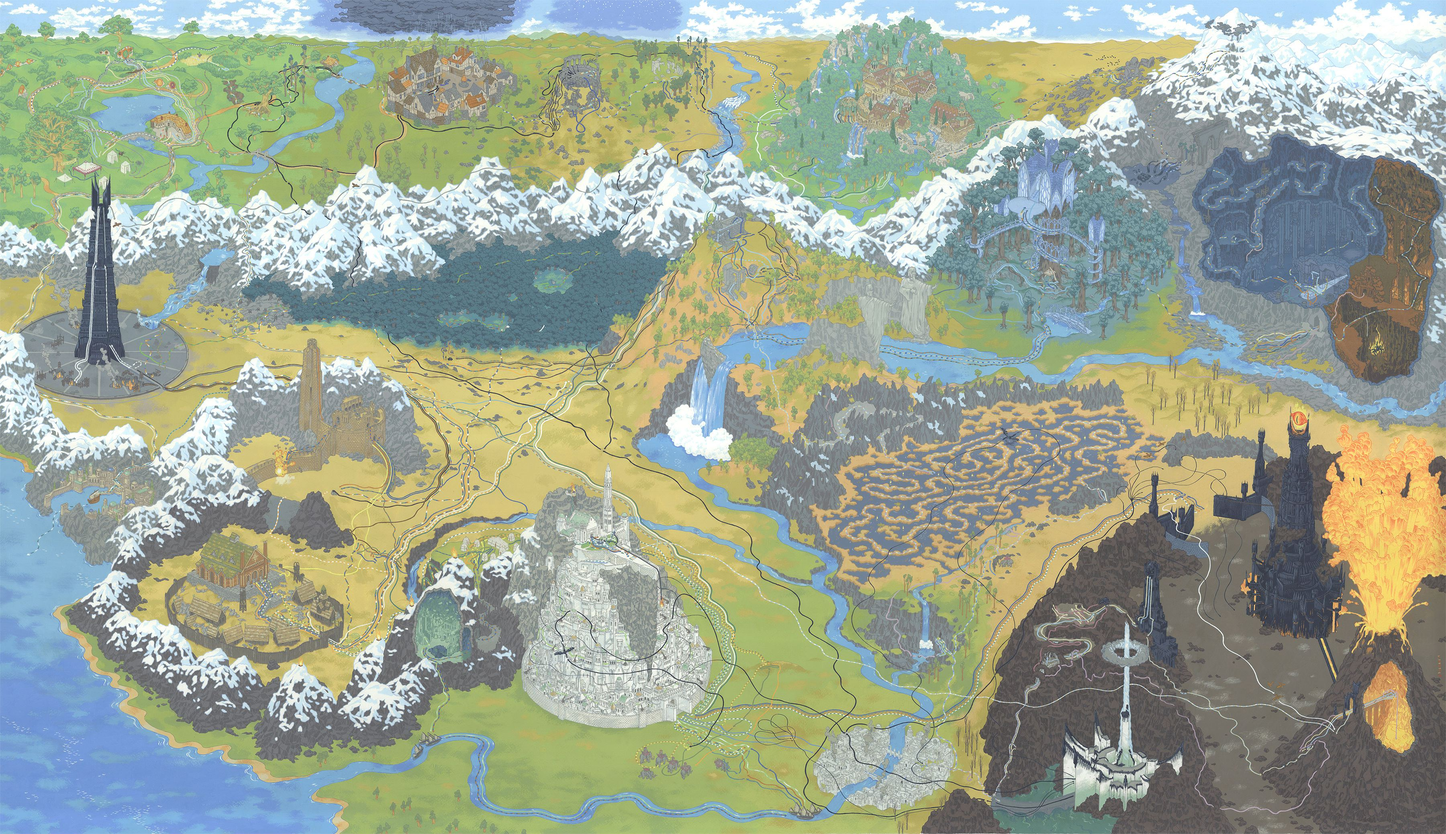
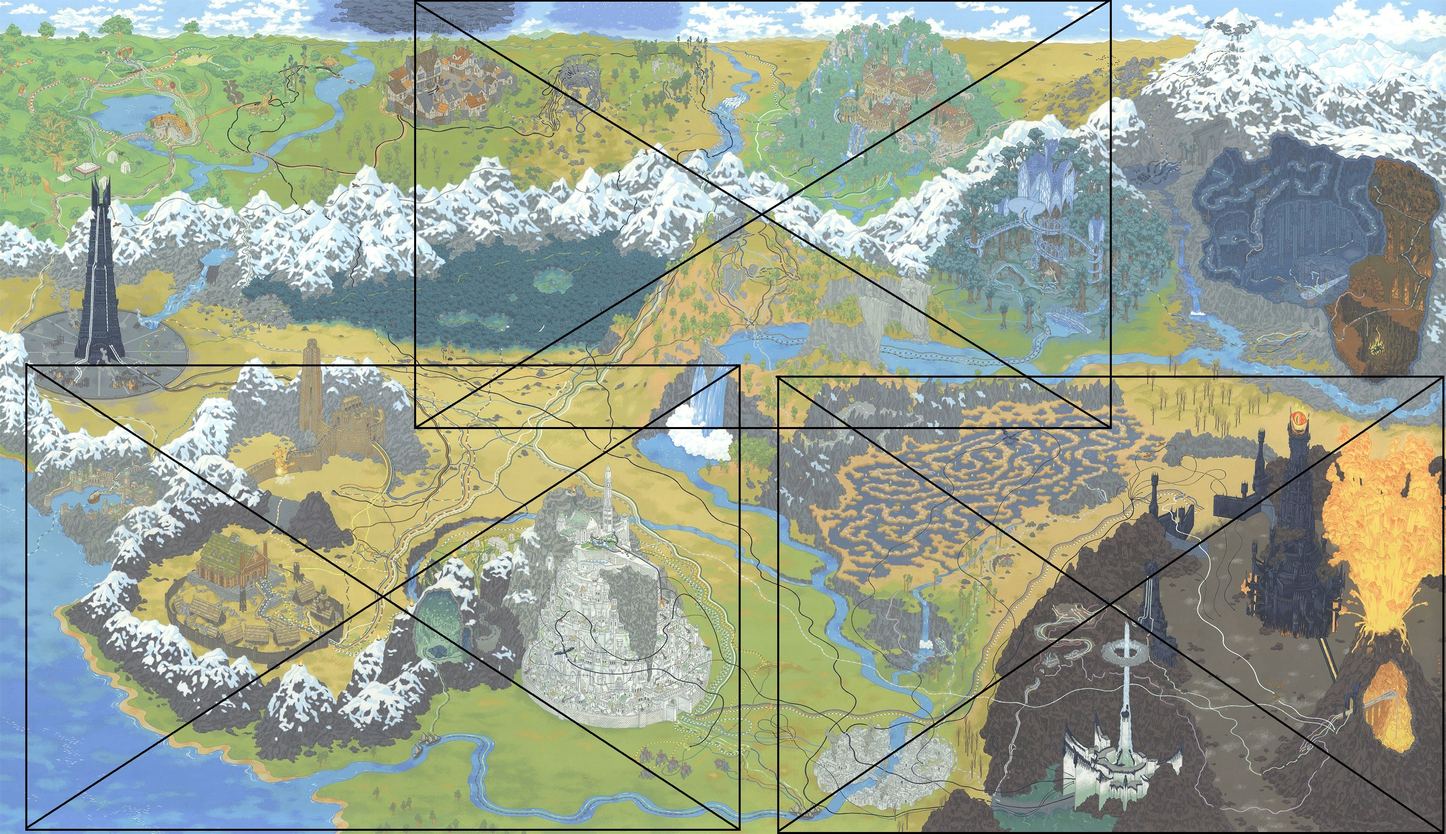
map zoom in

diff --git a/js/controllers/map.js b/js/controllers/map.js
@@ -1,31 +1,36 @@
 angular.module('al')
 
 .controller('MapCtrl', function($scope, $uibModalInstance, $document) {
+  $scope.currentState = 'zoom-initial';
   $scope.close = function() {
     $uibModalInstance.dismiss('cancel');
   };
-  function MapItem(bottom,right,imgClass,title,description){
+  function MapItem(bottom,right,imgClass,onClick,title,description){
     this.bottom=bottom;
     this.right=right;
     this.imgClass=imgClass;
+    this.onClick=onClick;
     this.title=title;
     this.description=description;
   }
   $scope.mapItems = [
-    new MapItem(100,10,"img-map-item",'Attraction 1','Cool description about attraction 1'),
-    new MapItem(10,159,"img-map-item",'Attraction 2','Cool description about attraction 2'),
-    new MapItem(58,60,"img-map-item",'Attraction 3','Cool description about attraction 3')
+    new MapItem('28.5%','70.5%',"img-map-item",'zoomWarriors','Warriors','Cool description about attraction 1. (click to zoom)'),
+    new MapItem('74%','44.5%',"img-map-item",'zoomSuperHero','Super Hero','Cool description about attraction 2. (click to zoom)'),
+    new MapItem('28%','20.5%',"img-map-item",'zoomHorror','Horror','Cool description about attraction 3. (click to zoom)')
   ];
-    $scope.mapItemsTo = [
-    new MapItem(150,60,"img-map-item",'Attraction 1','Cool description about attraction 1'),
-    new MapItem(60,209,"img-map-item",'Attraction 2','Cool description about attraction 2'),
-    new MapItem(108,110,"img-map-item",'Attraction 3','Cool description about attraction 3')
-  ];
-  $scope.mapItemsFrom = [
-    new MapItem(200,110,"img-map-item",'Attraction 1','Cool description about attraction 1'),
-    new MapItem(110,259,"img-map-item",'Attraction 2','Cool description about attraction 2'),
-    new MapItem(158,160,"img-map-item",'Attraction 3','Cool description about attraction 3')
-  ];
+
+  $scope.zoomSuperHero = function(){
+    $scope.currentState = 'zoom-in-super-hero';
+  };
+
+  $scope.zoomWarriors = function(){
+    $scope.currentState = 'zoom-in-warriors';
+  };
+
+  $scope.zoomHorror = function(){
+    $scope.currentState = 'zoom-in-horror';
+  };
+
   $document.ready(function () {
     $("[data-toggle='popover']").popover();
   });

diff --git a/css/map.css b/css/map.css
@@ -1,9 +1,11 @@
 div.map-container{
     position:relative;
+    overflow: hidden;
 }
 
 div.img-map{
     content:url(../img/map.jpg);
+    transition: transform 1s ease-in-out;
     max-width: 100%;
     max-height: 100%;
 }
@@ -36,3 +38,32 @@ div.img-map-item{
         drop-shadow(0 0 6px #B6FF00)
     }
 }
+
+.doight{
+    cursor: pointer;
+    cursor: hand;
+}
+
+.no-padding{
+    padding: 0;
+}
+
+.zoom-in-super-hero{
+    transform: scale(2);
+    transform-origin: 54% top;
+}
+
+.zoom-in-warriors{
+    transform: scale(2);
+    transform-origin: 3% 90%;
+}
+
+.zoom-in-horror{
+    transform: scale(2);
+    transform-origin: 100% 100%;
+}
+
+/*.zoom-initial{
+    transform: scale(0.2499);
+    transform-origin: 0 0;
+}*/

diff --git a/template/map.html b/template/map.html
@@ -1,13 +1,14 @@
 <div class="modal-header">
   <h3 class="modal-title" id="map-modal-title">Map</h3>
 </div>
-<div class="modal-body" id="map-modal-body">
+<div class="modal-body no-padding" id="map-modal-body">
     <div class="map-container">
-        <div class='img-map'></div>
-        <div class="pulse"
+        <div class='img-map' ng-class="currentState"></div>
+        <div class="pulse doight"
              ng-repeat="mapItem in mapItems"
              ng-class='mapItem.imgClass'
              ng-style="{bottom:mapItem.bottom,right:mapItem.right}"
+             ng-click="this[mapItem.onClick]()"
              data-container="body"
              data-toggle="popover"
              data-trigger="hover"

diff --git a/index.html b/index.html
@@ -27,7 +27,7 @@
   </head>
   <body ng-app="al" ng-controller="MainCtrl">
     <button ng-click="order.open()">Order</button>
-    <button ng-click="map.open()">Map</button>
+    <button ng-click="map.open()">Awesome button</button>
 
     <div class="mashup mashup-{{ mashup.state }}">
       <ul class="mashup-section" ng-click="mashup.focusSection(1)">
